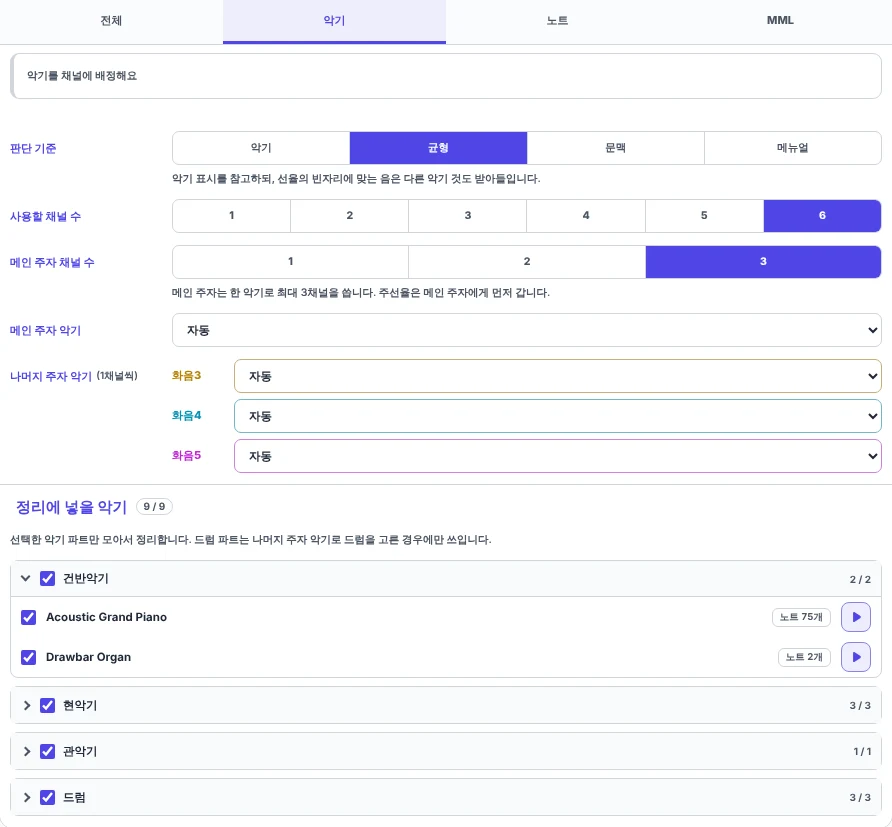
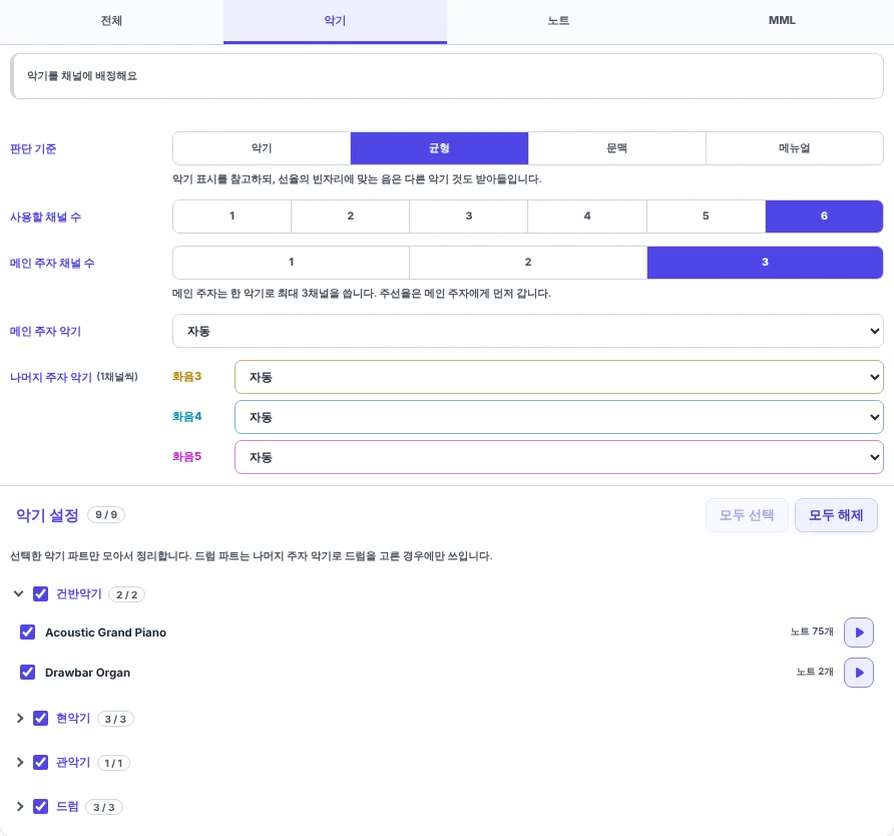
스타일 조정, 가이드 갱신

diff --git a/player/styles.css b/player/styles.css
@@ -10280,7 +10280,7 @@ a[class*="button"]:hover {
   border: 0 !important;
   background: transparent !important;
 }
-.player-ui #midiConvertDialog:not(.wb15-manual-mode) #midiInstrumentPanelTitle {
+.player-ui #midiConvertDialog #midiInstrumentPanelTitle {
   display: flex;
   align-items: center;
   gap: 8px;
@@ -10596,3 +10596,148 @@ a[class*="button"]:hover {
   border-color: var(--wb4-accent, #4f46e5); background: var(--wb4-accent, #4f46e5); color: #fff;
 }
 .midi-recommend-opt:disabled { opacity: .4; cursor: not-allowed; }
+
+/* rev 20261119t: 악기 설정(비수동) — 선 없는 분류 묶음, 개수는 분류명 바로 옆, 노트 개수 박스 테두리 제거 */
+.player-ui #midiConvertDialog:not(.wb15-manual-mode) .midi-instrument-section {
+  border: 0 !important;
+  border-radius: 0 !important;
+  background: transparent !important;
+  overflow: visible;
+}
+.player-ui #midiConvertDialog:not(.wb15-manual-mode) .wb15-arr-section-head {
+  background: transparent !important;
+  border-bottom: 0 !important;
+  padding: 0 4px !important;
+}
+.player-ui #midiConvertDialog:not(.wb15-manual-mode) .midi-instrument-section[open] > .wb15-arr-section-head { border-bottom: 0 !important; }
+.player-ui #midiConvertDialog:not(.wb15-manual-mode) .wb15-arr-section-count { margin-left: 0 !important; }
+.player-ui #midiConvertDialog:not(.wb15-manual-mode) .wb15-arr-note-chip {
+  border: 0 !important;
+  background: transparent !important;
+  padding: 2px 0 !important;
+}
+
+/* rev 20261119u: 분류별 선택 개수 — 악기 설정 총 개수처럼 테두리 칩, 그룹명 바로 오른쪽 */
+.player-ui #midiConvertDialog:not(.wb15-manual-mode) .wb15-arr-section-head { justify-content: flex-start !important; }
+.player-ui #midiConvertDialog:not(.wb15-manual-mode) .wb15-arr-section-name { flex: 0 1 auto !important; min-width: 0; }
+.player-ui #midiConvertDialog:not(.wb15-manual-mode) .wb15-arr-section-count {
+  flex: 0 0 auto;
+  margin: 0 0 0 -2px !important;
+  padding: 1px 7px !important;
+  border: 1px solid var(--wb4-line) !important;
+  border-radius: 999px;
+  color: var(--wb4-muted);
+  font-size: 10px;
+  font-weight: 750;
+}
+
+/* rev 20261119v: 분류명 파란색, 수동 분류 개수는 박스 칩(숫자만) */
+.player-ui #midiConvertDialog .wb15-arr-section-name,
+.player-ui #midiConvertDialog .wb15-manual-section > .midi-instrument-section-head strong { color: var(--wb4-accent) !important; }
+.player-ui #midiConvertDialog .wb15-manual-section > .midi-instrument-section-head { justify-content: flex-start !important; align-items: center !important; }
+.player-ui #midiConvertDialog .wb15-manual-section > .midi-instrument-section-head strong { flex: 0 1 auto !important; }
+.player-ui #midiConvertDialog .wb15-manual-section-count {
+  flex: 0 0 auto;
+  padding: 1px 7px;
+  border: 1px solid var(--wb4-line);
+  border-radius: 999px;
+  color: var(--wb4-muted);
+  font-size: 10px;
+  font-weight: 750;
+}
+
+/* rev 20261119w: 수동 분류 머리 높이를 악기 설정(자동 정리)과 동일하게 */
+.player-ui #midiConvertDialog .wb15-manual-section > .midi-instrument-section-head {
+  min-height: 36px !important;
+  padding: 0 4px !important;
+  gap: 8px !important;
+}
+.player-ui #midiConvertDialog .wb15-manual-section-count { margin-left: -2px; }
+
+/* rev 20261119x: 악기 설정 오른쪽 모두 선택/해제 */
+.player-ui #midiConvertDialog #midiInstrumentPanelTitle { width: 100%; }
+.player-ui #midiConvertDialog .wb15-arr-bulk { margin-left: auto; display: inline-flex; gap: 6px; }
+.player-ui #midiConvertDialog .wb15-arr-bulk-btn {
+  min-height: 0 !important;
+  height: 24px;
+  padding: 0 9px !important;
+  border: 1px solid var(--wb4-line) !important;
+  border-radius: 999px !important;
+  background: var(--wb4-surface) !important;
+  color: var(--wb4-text) !important;
+  font-size: 10.5px !important;
+  font-weight: 750 !important;
+  white-space: nowrap;
+  cursor: pointer;
+}
+.player-ui #midiConvertDialog .wb15-arr-bulk-btn:hover:not(:disabled) { border-color: var(--wb4-accent) !important; color: var(--wb4-accent) !important; }
+.player-ui #midiConvertDialog .wb15-arr-bulk-btn:disabled { opacity: .4; cursor: default; }
+
+/* rev 20261119z2: 4개 버튼은 음색 버튼 색, 팝업은 이전 양식 + 음색 팝업의 블러/색 */
+.player-ui #midiConvertDialog .wb15-arr-bulk-btn,
+.player-ui #midiConvertDialog .midi-panel-title-actions > button {
+  height: 34px !important;
+  min-height: 34px !important;
+  padding: 6px 13px !important;
+  border: 1px solid color-mix(in srgb, var(--accent), var(--line) 60%) !important;
+  border-radius: 8px !important;
+  background: var(--accent-weak) !important;
+  color: var(--accent) !important;
+  box-shadow: none !important;
+  font-size: 13px !important;
+  font-weight: 700 !important;
+  white-space: nowrap;
+}
+.player-ui #midiConvertDialog .wb15-arr-bulk-btn:hover:not(:disabled),
+.player-ui #midiConvertDialog .midi-panel-title-actions > button:hover:not(:disabled) {
+  background: var(--control-hover) !important;
+  color: var(--accent) !important;
+}
+.player-ui #midiConvertDialog .wb15-arr-bulk-btn:disabled { opacity: .45; }
+#midiRecommendDialog.mml-dialog {
+  position: fixed !important; inset: 0 !important; height: fit-content !important;
+  max-height: min(88dvh, 760px) !important; margin: auto !important; padding: 0 !important;
+  border: 0 !important; border-radius: 14px !important; background: transparent !important;
+  box-shadow: 0 24px 80px rgba(15, 23, 42, .32) !important; overflow: visible !important; z-index: 320 !important;
+}
+#midiRecommendDialog.mml-dialog::backdrop { background: rgba(15, 23, 42, .5); backdrop-filter: blur(3px); }
+#midiRecommendDialog .dialog-card {
+  width: 100% !important; max-width: none !important; max-height: min(88dvh, 760px) !important;
+  margin: 0 !important; border-radius: 14px !important; overflow: auto !important;
+}
+/* 음색 설정 팝업: 일괄 선택 팝업 양식(라벨 위, 선택지 아래, 박스 없음, 폭 640) */
+#partSoundDialog.mml-dialog { width: min(92vw, 640px) !important; max-width: 640px !important; }
+#partSoundDialog .part-sound-card { gap: 14px; }
+#partSoundDialog .soundfont-file-row,
+#partSoundDialog .soundfont-download-row,
+#partSoundDialog .part-sound-preset-row {
+  grid-template-columns: minmax(0, 1fr) !important;
+  align-items: stretch !important;
+  gap: 7px !important;
+  padding: 0 !important;
+  border: 0 !important;
+  border-radius: 0 !important;
+  background: transparent !important;
+}
+#partSoundDialog .soundfont-file-row > .dialog-field,
+#partSoundDialog .soundfont-download-row > .dialog-field,
+#partSoundDialog .part-sound-preset-row > .dialog-field { color: var(--text); font-size: 14px; font-weight: 900; text-align: left; }
+
+/* rev 20261119y: 팝업 하단 버튼을 '채널 음색 설정'의 취소/적용 양식으로 */
+#midiBulkAssignDialog .midi-bulk-assign-actions > button,
+#midiRecommendDialog .midi-bulk-assign-actions > button {
+  min-width: 0; padding: 6px 10px; border: 0 !important; border-radius: 9px; box-shadow: none !important;
+  font-size: 13.5px; font-weight: 700;
+}
+#midiBulkAssignDialog #midiBulkCancelBtn, #midiBulkAssignDialog #midiBulkClearBtn,
+#midiRecommendDialog #midiRecommendCancelBtn {
+  background: #f3f4f6 !important; color: #1f2937 !important;
+}
+#midiBulkAssignDialog #midiBulkSelectBtn, #midiRecommendDialog #midiRecommendOkBtn {
+  background: #4f46e5 !important; color: #fff !important;
+}
+:root[data-theme="dark"] #midiBulkAssignDialog #midiBulkCancelBtn,
+:root[data-theme="dark"] #midiBulkAssignDialog #midiBulkClearBtn,
+:root[data-theme="dark"] #midiRecommendDialog #midiRecommendCancelBtn { background: #1f2937 !important; color: #e5e7eb !important; }
+:root[data-theme="dark"] #midiBulkAssignDialog #midiBulkSelectBtn,
+:root[data-theme="dark"] #midiRecommendDialog #midiRecommendOkBtn { background: #818cf8 !important; color: #fff !important; }

diff --git a/player/index.html b/player/index.html
@@ -26,9 +26,9 @@
 <link href="https://stardust-repo.github.io/mobibard/player/?lang=zh-CN" hreflang="zh-CN" rel="alternate"/>
 <link href="https://stardust-repo.github.io/mobibard/player/?lang=zh-TW" hreflang="zh-TW" rel="alternate"/>
 <link href="https://stardust-repo.github.io/mobibard/player/" hreflang="x-default" rel="alternate"/>
-<link href="styles.css?v=6.0.0&amp;rev=20261119s" rel="stylesheet"/><link href="../plugins/common/site-navigation.css?v=20260923-discord-hue1" rel="stylesheet"/>
+<link href="styles.css?v=6.0.0&amp;rev=20261119z2" rel="stylesheet"/><link href="../plugins/common/site-navigation.css?v=20260923-discord-hue1" rel="stylesheet"/>
 <link href="../plugins/common/supported-files-ui.css?v=5.1.0&amp;rev=20260823-final25" rel="stylesheet"/>
-<link as="script" href="js/app.js?v=6.0.0&amp;rev=20261119s" rel="preload"/>
+<link as="script" href="js/app.js?v=6.0.0&amp;rev=20261119z2" rel="preload"/>
 <script>try{document.documentElement.dataset.theme=localStorage.getItem("mobibard.player.theme")==="dark"?"dark":"light";}catch(_){document.documentElement.dataset.theme="light";}</script>
 <script>
 (() => {
@@ -74,7 +74,7 @@
   document.documentElement.dataset.i18nPending = "true";
   const localeUrl = new URL(`locale/${files[language]}`, document.baseURI);
   if (localeUrl.protocol !== "file:") localeUrl.searchParams.set("v", "5.2.0");
-  if (localeUrl.protocol !== "file:") localeUrl.searchParams.set("rev", "20261119s");
+  if (localeUrl.protocol !== "file:") localeUrl.searchParams.set("rev", "20261119z2");
   document.write(`<script src="${localeUrl.href.replace(/&/g, "&amp;")}"><\/script>`);
   window.setTimeout(() => document.documentElement.removeAttribute("data-i18n-pending"), 3000);
 })();
@@ -543,7 +543,7 @@
 </dialog>
 <script src="../plugins/common/site-navigation.js?v=20261106-tip"></script><script src="../plugins/common/mml-midi.js?v=1.0.0"></script>
 <script src="../plugins/common/save-menu.js?v=1.0.1"></script>
-<script src="js/app.js?v=6.0.0&amp;rev=20261119s"></script>
+<script src="js/app.js?v=6.0.0&amp;rev=20261119z2"></script>
 <script src="js/language-manager.js?v=6.0.0&amp;rev=20261102a-nombt"></script>
 <script src="../plugins/common/utils.js?v=5.1.0&amp;rev=20261118-ncode"></script>
 <script src="../plugins/common/note-timing.js?v=1.0.0"></script>

diff --git a/player/js/app.js b/player/js/app.js
@@ -10062,7 +10062,7 @@ window.MobibardStartPlayerApp = function MobibardStartPlayerApp() {
       section.dataset.midiCategory = key;
       section.open = midiInstrumentSectionOpenState.has(key) ? midiInstrumentSectionOpenState.get(key) !== false : true;
       section.className = `midi-instrument-section midi-instrument-category-section wb15-manual-section category-${key}`;
-      section.innerHTML = `<summary class="midi-instrument-section-head"><strong>${escapeHtml(i18nText("ui.name_count", [label, formatCount(items.length)]))}</strong></summary>`;
+      section.innerHTML = `<summary class="midi-instrument-section-head"><strong>${escapeHtml(label)}</strong><span class="wb15-manual-section-count">${escapeHtml(formatCount(items.length))}</span></summary>`;
       section.addEventListener("toggle", () => midiInstrumentSectionOpenState.set(key, section.open));
       for (const group of items) section.appendChild(makeRow(group));
       midiChannelList.appendChild(section);
@@ -10140,7 +10140,19 @@ window.MobibardStartPlayerApp = function MobibardStartPlayerApp() {
       const count = document.createElement("span");
       count.className = "wb15-arr-include-total";
       count.textContent = `${formatCount(included.size)} / ${formatCount(groups.length)}`;
-      midiInstrumentPanelTitle.replaceChildren(document.createTextNode(i18nText("arrange.include")), count);
+      const bulk = document.createElement("span");
+      bulk.className = "wb15-arr-bulk";
+      const allIds = groups.map(group => String(group.id));
+      for (const [key, value] of [["midi.select_all_inst", true], ["midi.clear_all_inst", false]]) {
+        const btn = document.createElement("button");
+        btn.type = "button";
+        btn.className = "wb15-arr-bulk-btn";
+        btn.textContent = i18nText(key);
+        btn.disabled = value ? included.size >= allIds.length : included.size === 0;
+        btn.addEventListener("click", ev => { ev.preventDefault(); ev.stopPropagation(); setMidiGroupIncluded(allIds, value); });
+        bulk.appendChild(btn);
+      }
+      midiInstrumentPanelTitle.replaceChildren(document.createTextNode(i18nText("layout6.instrumentSettings")), count, bulk);
     }
     midiChannelList.replaceChildren();
     if (!groups.length) {

diff --git a/player/locale/ja.js b/player/locale/ja.js
@@ -7,6 +7,8 @@ window.__MOBIBARD_LOCALES__["ja"] = {
     "account.guest": "ゲスト",
     "account.menu": "アカウントメニュー",
     "account.user": "Google ユーザー",
+    "midi.select_all_inst": "すべて選択",
+    "midi.clear_all_inst": "すべて解除",
     "aria.listen_item": "{0}を試聴",
     "aria.merge_mode": "{0}の重なり結合方式",
     "aria.preview_selected_sound": "{0}の選択音色を試聴",

diff --git a/player/locale/ko.js b/player/locale/ko.js
@@ -7,6 +7,8 @@ window.__MOBIBARD_LOCALES__["ko"] = {
     "account.guest": "게스트",
     "account.menu": "계정 메뉴",
     "account.user": "Google 사용자",
+    "midi.select_all_inst": "모두 선택",
+    "midi.clear_all_inst": "모두 해제",
     "aria.listen_item": "{0} 듣기",
     "aria.merge_mode": "{0} 겹침 병합 방식",
     "aria.preview_selected_sound": "{0} 선택 음색 미리듣기",

diff --git a/player/locale/en.js b/player/locale/en.js
@@ -7,6 +7,8 @@ window.__MOBIBARD_LOCALES__["en"] = {
     "account.guest": "Guest",
     "account.menu": "Account menu",
     "account.user": "Google user",
+    "midi.select_all_inst": "Select all",
+    "midi.clear_all_inst": "Clear all",
     "aria.listen_item": "Listen to {0}",
     "aria.merge_mode": "Overlap merge mode for {0}",
     "aria.preview_selected_sound": "Preview selected sound for {0}",

diff --git a/player/locale/zh-TW.js b/player/locale/zh-TW.js
@@ -7,6 +7,8 @@ window.__MOBIBARD_LOCALES__["zh-TW"] = {
     "account.guest": "訪客",
     "account.menu": "帳號選單",
     "account.user": "Google 使用者",
+    "midi.select_all_inst": "全選",
+    "midi.clear_all_inst": "全部取消",
     "aria.listen_item": "試聽{0}",
     "aria.merge_mode": "{0}的重疊合併方式",
     "aria.preview_selected_sound": "預覽{0}所選音色",

diff --git a/player/locale/zh-CN.js b/player/locale/zh-CN.js
@@ -7,6 +7,8 @@ window.__MOBIBARD_LOCALES__["zh-CN"] = {
     "account.guest": "访客",
     "account.menu": "帐号菜单",
     "account.user": "Google 用户",
+    "midi.select_all_inst": "全选",
+    "midi.clear_all_inst": "全部取消",
     "aria.listen_item": "试听{0}",
     "aria.merge_mode": "{0}的重叠合并方式",
     "aria.preview_selected_sound": "预览{0}所选音色",
